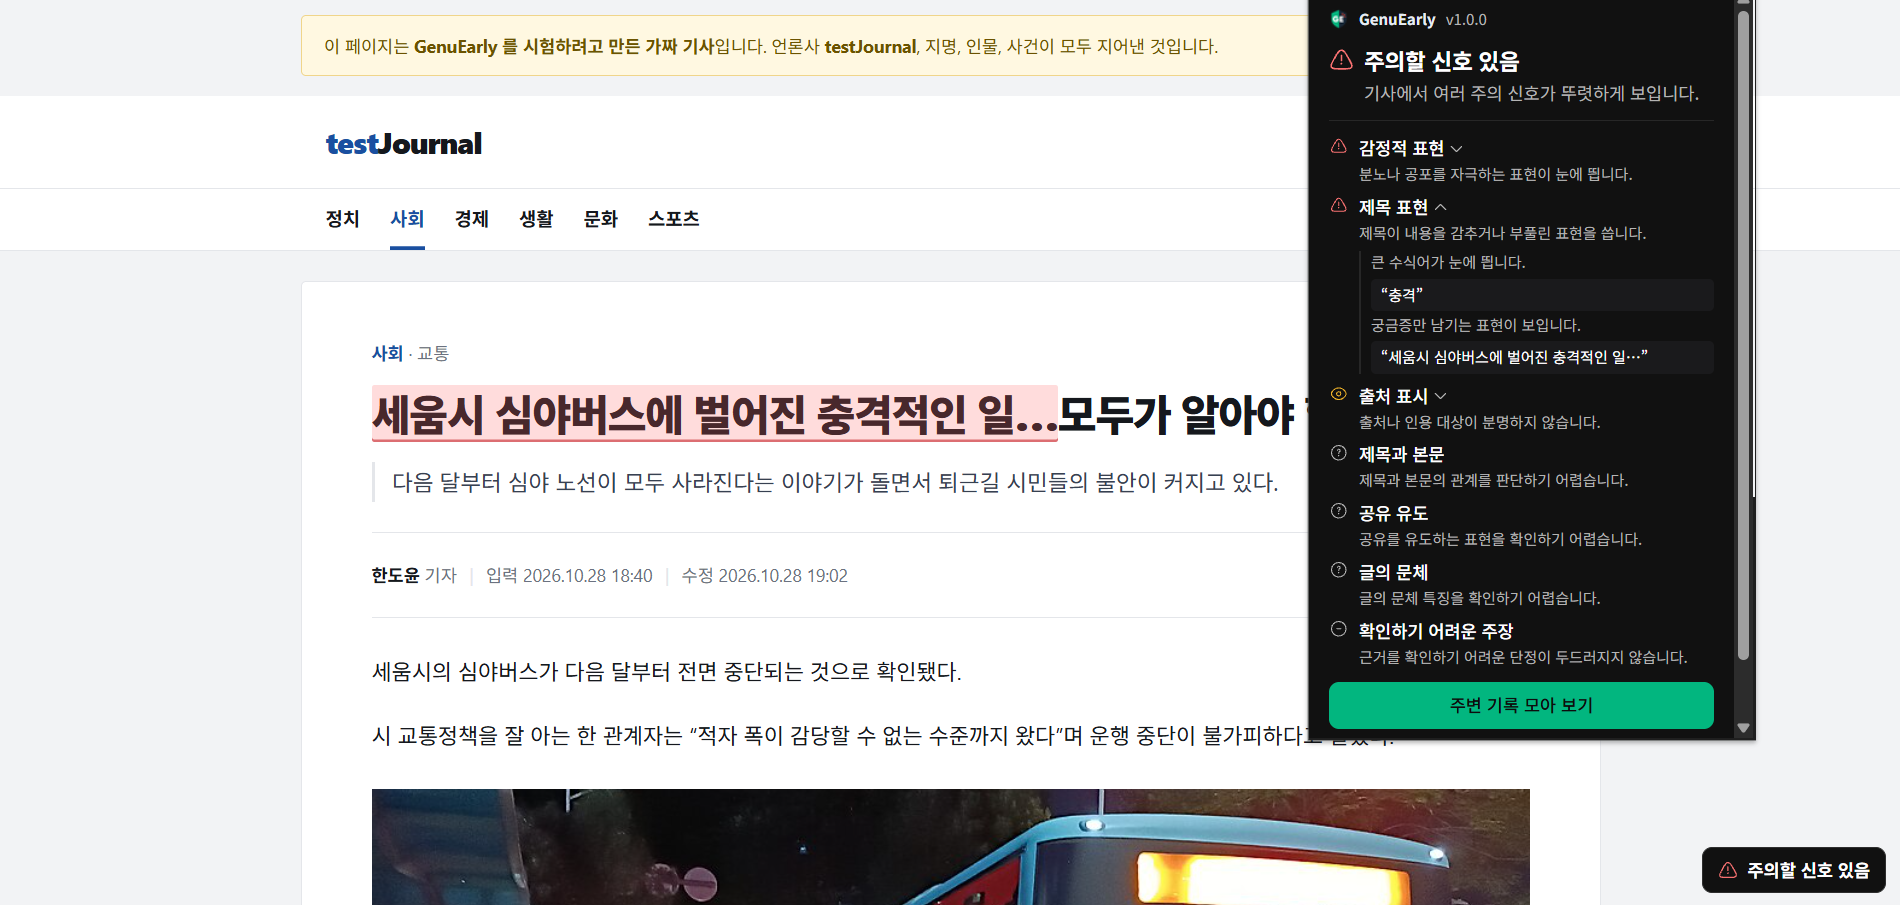
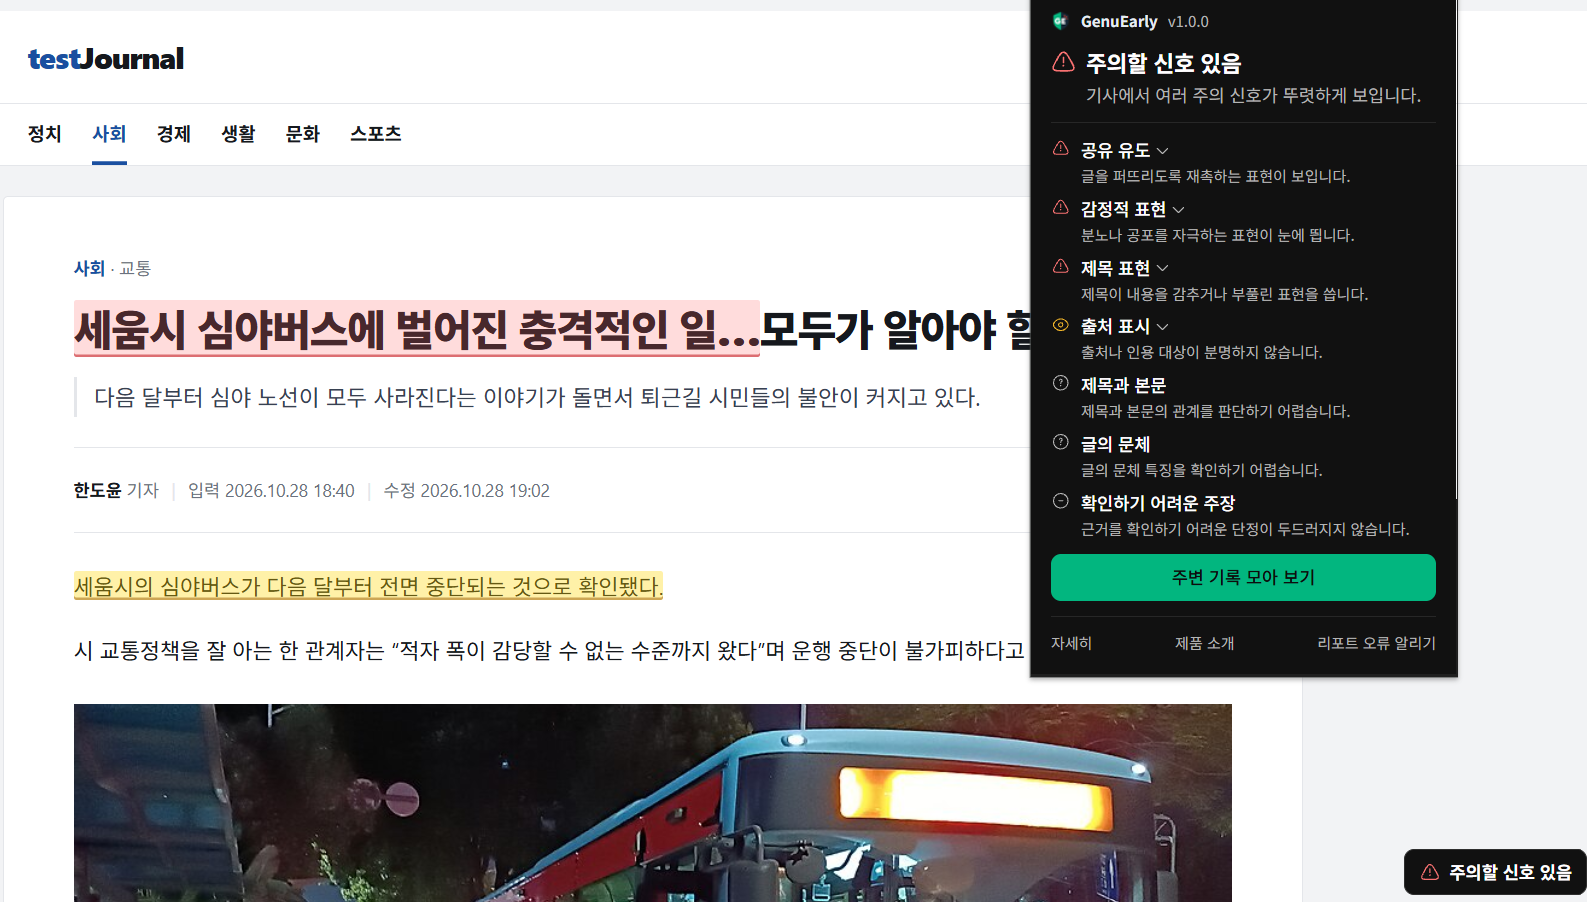
design: 바닥에서 대회 줄을 빼고 저작권 한 줄을 세운다
- 브랜드 칸에서 "2026 KHU AI Challenge 출품작" 을 뺀다. 한 줄이 되어
  `.foot__brand` 도 grid 에서 flex 로 줄인다
- 저작권 줄에 "All rights reserved." 를 붙인다
- `hero-article.png` 를 다시 찍은 것으로 바꾼다. 제목 빨강·본문 노랑·
  팝업·배지가 한 화면에 모두 들어왔다

diff --git a/landing/landing.css b/landing/landing.css
@@ -535,15 +535,14 @@ code {
   justify-content: space-between;
   align-items: flex-start;
 }
-.foot__brand { display: grid; grid-template-columns: auto auto; gap: var(--s8); align-items: center; }
-.foot__brand p { grid-column: 1 / -1; margin: var(--s4) 0 0; font-size: 13px; opacity: 0.7; }
+.foot__brand { display: flex; gap: var(--s8); align-items: center; }
 
 /**
- * 넷뿐인 링크를 **한 줄로 눕힌다.** 세로로 쌓으면 왼쪽 브랜드 칸은 두 줄인데
+ * 넷뿐인 링크를 **한 줄로 눕힌다.** 세로로 쌓으면 왼쪽 브랜드 칸은 한 줄인데
  * 오른쪽만 네 줄이라 바닥이 한쪽으로만 길어졌다.
  *
  * 글머리를 브랜드 이름 줄에 맞추려고 위를 조금 민다 — 아이콘(24px)이 글자보다
- * 커서 브랜드 첫 줄의 중심이 그만큼 아래에 있다.
+ * 커서 브랜드 줄의 중심이 그만큼 아래에 있다.
  */
 .foot__links {
   display: flex;

diff --git a/landing/index.html b/landing/index.html
@@ -250,7 +250,6 @@
     <div class="foot__brand">
       <img src="./assets/icon-128.png" alt="" width="24" height="24">
       <b>GenuEarly</b>
-      <p>2026 KHU AI Challenge 출품작</p>
     </div>
     <nav class="foot__links" aria-label="바닥 안내">
       <a href="https://github.com/sumin0218/GenuEarly">GitHub</a>
@@ -259,7 +258,7 @@
       <a href="https://github.com/sumin0218/GenuEarly/blob/main/LICENSE">MIT License</a>
     </nav>
   </div>
-  <p class="foot__copy">© 2026 GenuEarly contributors</p>
+  <p class="foot__copy">© 2026 GenuEarly contributors. All rights reserved.</p>
 </footer>
 
 <script src="./shots.js"></script>
